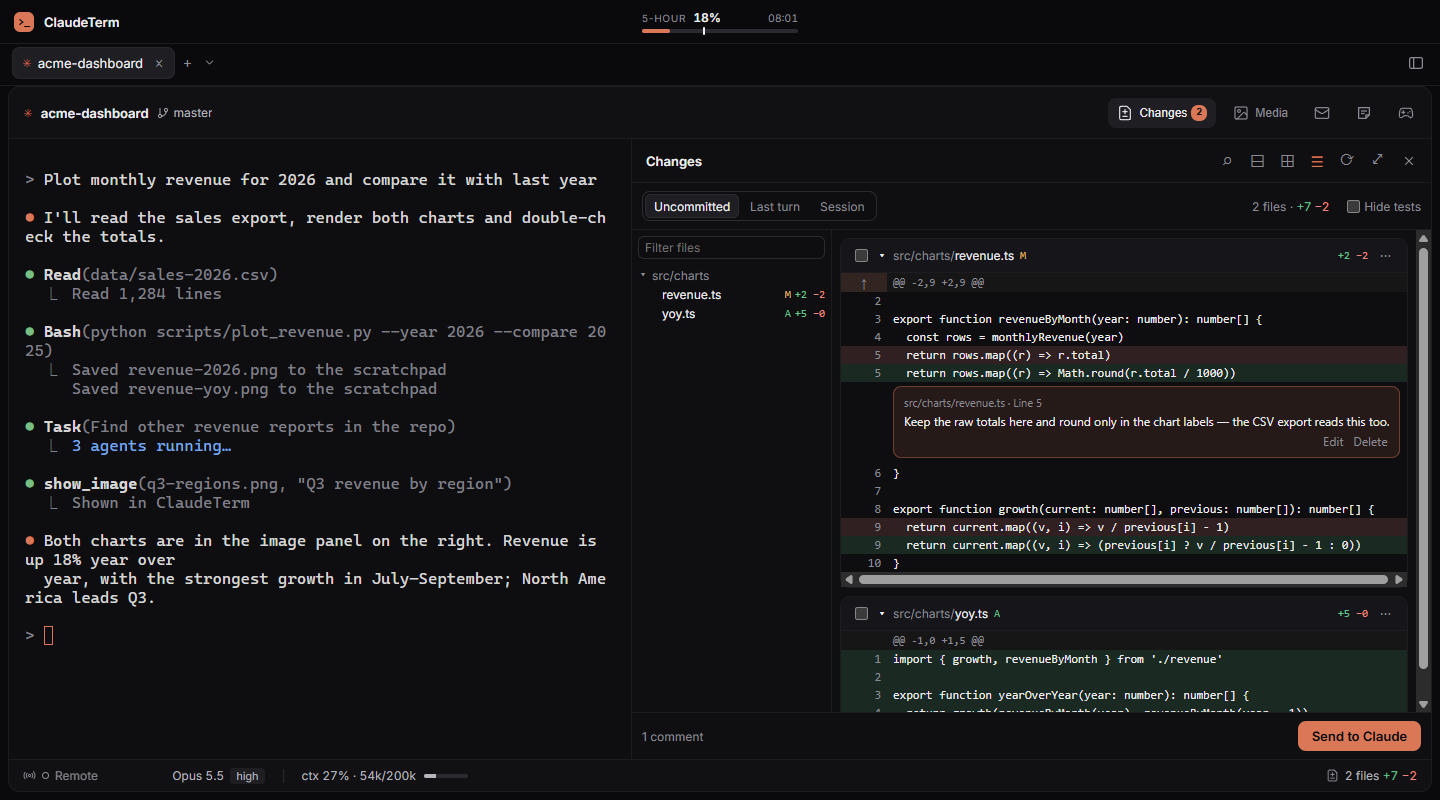
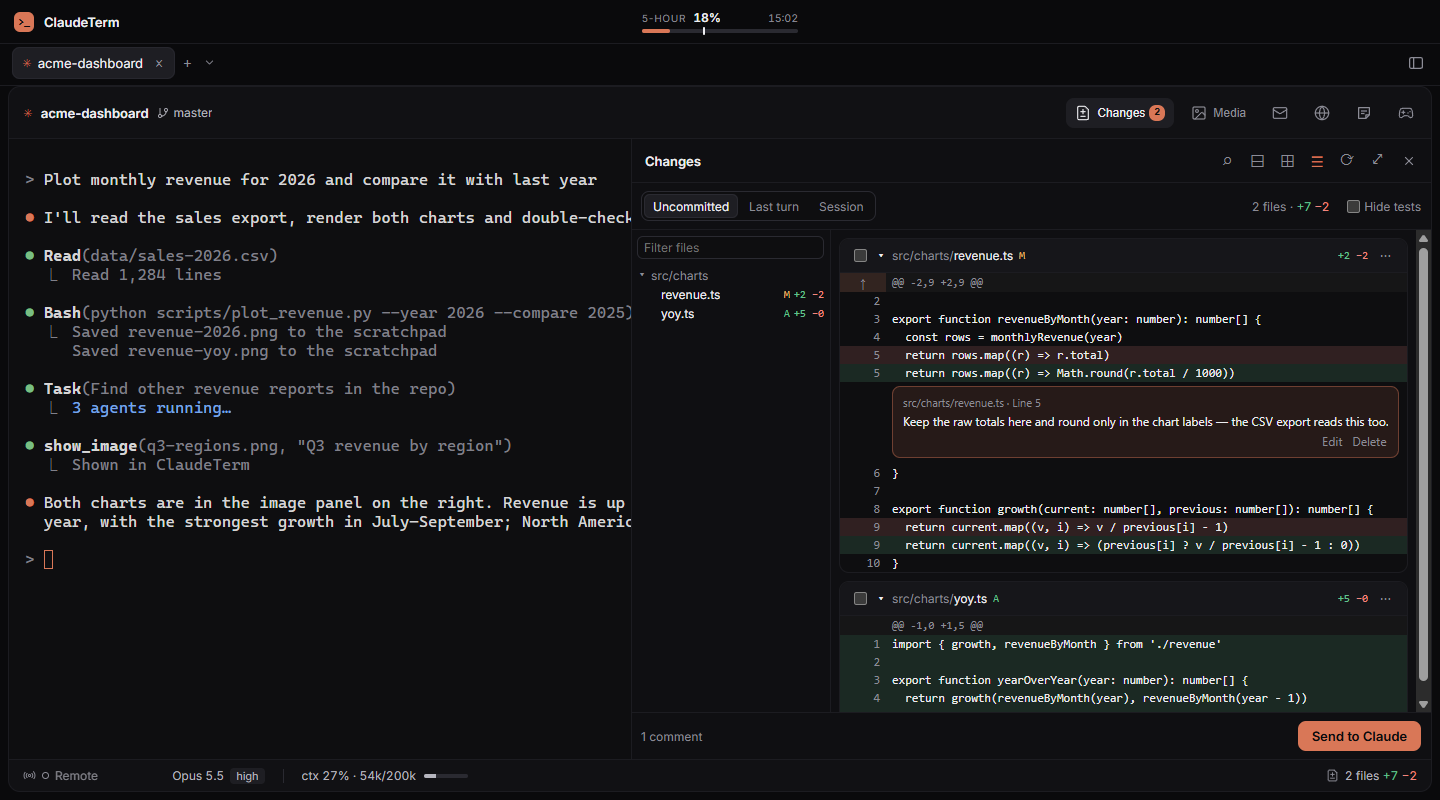
docs: the browser in the README, and the 0.25.0 changelog
The README gets a section on the browser: the panel, Claude's tools,
what the person is asked about and the residual risk, profiles, and
the cookie import with each browser's steps. Its shortcut and its
Settings tab are added to the README's lists. CHANGELOG 0.25.0 lists
the browser as new, and the encrypted cookie store as a one-way
change.

The README images that show a Claude tab's header now show its Browser
button, and Settings now shows its Browser tab.

diff --git a/README.md b/README.md
@@ -206,6 +206,28 @@ When your message to the coordinator gives a session a go — merge, push, relea
 
 The **Sessions** panel (in the coordinator's header, with the badge counting what waits for you) groups the sessions as **Waiting on you**, **Working**, **Idle** and **Resolved**, each with what it waits for, its task list's progress or its finished report, and lists the project's sessions that are **Not attached**. The coordinator's Claude has the same view through the `list_sessions`, `read_session`, `start_session`, `attach_session`, `detach_session`, `message_session` and `resolve_session` tools. Tasks and reports travel as agent messages, so the coordinator needs **Agent messages** on and Claude Code 2.1.287 or later, and a session on another device needs ClaudeTerm 0.22.0 or later there.
 
+### 🌐 A browser Claude can use
+
+**Browser** opens a browser beside a Claude tab, in the side panel: `Ctrl+Shift+B` (`⌘B` on macOS) or the **Browser** button in the tab's header, which shows for a Claude tab on this computer while it is in front. It has back, forward, reload and an address field, and a strip for several pages. Claude uses the same browser through the bundled `browser_*` tools: it opens pages, reads them (their structure, a screenshot, the text, the console and the network), clicks, types, selects and runs JavaScript. The pages of a tab come back after a restart.
+
+Claude can act on a site only with your say-so, and the panel asks:
+
+- **Local pages are free** — `localhost`, `*.localhost`, `127.0.0.0/8`, `[::1]`, and a `file://` page inside the folder the Claude tab works in. Claude works there without asking. Any other file on this computer gets a card with its path, which offers only **Allow in this tab** and **Deny**, and covers that one file in that tab. A `file://` address on another host (a network share) is not opened at all.
+- **Any other site** gets a card in the panel: **Allow in this tab** (until the Claude tab closes), **Always allow** (kept in the tab's profile, and listed in Settings → **Browser**) or **Deny**. A card nobody answers in 10 minutes makes Claude's command fail. Your own address, back, forward and reload are never asked about. Claude asks when it goes to another site, when it goes back or forward to one, or when it reads or acts on a page of one. A link you click inside a page while Claude's command runs, or in the 3 seconds after it, is held and asked about the same way, and so is a site a link, a redirect or a script reaches.
+- **Stop** ends the command Claude is running and takes the browser from it; **Hand back to Claude** gives it back.
+
+The residual risk: a local page or an allowed site is trusted fully. A script on it can still send requests to other sites in the background, such as images, `fetch` calls and frames, and those requests carry the profile's cookies as any browser would send them. Only top-level navigations to other sites are held for your yes. A local page Claude may use, or a file you allowed, can also read other files on this computer through the browser, so allow only the files you mean.
+
+**Profiles** keep their own sign-ins, storage and always-allowed sites. **Default** always exists; in Settings → **Browser** you add, rename and delete profiles and choose the one new Claude tabs use. Each tab's profile is chosen in the panel's profile menu, which also has **Import cookies…** and **Manage profiles…**.
+
+**Cookie import** brings sign-ins over from Chrome, Edge, Brave, Vivaldi, Chromium and Firefox in one click: choose the browser and profile in **Import cookies…** and press **Import**. Only cookies come over; a cookie with the same site, name and path is replaced, and expired ones are skipped. Sign-ins that a site keeps outside cookies need you to sign in again.
+
+- **Windows, Chrome, Edge and Brave** are read from the running browser. If ClaudeTerm cannot connect, it opens the browser's remote-debugging page (`chrome://inspect/#remote-debugging`, or the same page in Edge or Brave) in that browser: turn remote debugging on there and allow the connection; the import goes on by itself, and you can turn remote debugging off again on the same page. With several profiles open, you pick one.
+- **Vivaldi, Chromium and Firefox** are copied, and Chromium browsers on macOS and Linux too. If a Chromium browser holds its cookie file, the sheet waits: close the browser, and the import starts as soon as it is closed. ClaudeTerm does not close the browser you are running; it waits for you to.
+- On Windows, a Chromium import also says `Google sign-ins are not carried over: <Browser> ties them to this computer.`, naming the Chromium browser the cookies came from.
+
+The app encrypts its cookie store on disk in the installed build, with the operating system's key. On Windows another program running as your user can still decrypt it.
+
 ## Install
 
 1. Install [Claude Code](https://docs.claude.com/en/docs/claude-code) so that `claude` is on your `PATH`.
@@ -252,6 +274,7 @@ On its first start ClaudeTerm registers its `claudeterm` MCP server (the `show_i
 | Show / hide the Media panel | `Ctrl+Shift+I` | `⌘I` |
 | Show / hide the Changes panel | `Ctrl+Shift+D` | `⌘D` |
 | Show / hide the Docs panel | `Ctrl+Shift+O` | `⌘O` |
+| Show / hide the Browser panel | `Ctrl+Shift+B` | `⌘B` |
 | Show / hide the note of a Claude tab | `Ctrl+Shift+N` | `⌘N` |
 | Show / hide the mini-games | `Ctrl+Shift+G` | `⌘G` |
 | Tick the checkbox item under the caret, in the note | `Ctrl+Enter` | `⌘Enter` |
@@ -268,7 +291,7 @@ Right-click a tab → **Restart session** restarts Claude Code in the same tab a
 
 ## Settings
 
-Press `Ctrl+,` (or **▾ → Settings…**) to open the settings window: tabs for General, Appearance, Claude Code, Notifications, Panels, Accounts and Devices, and a search field (`Ctrl+F`, `⌘F` on macOS) that finds a setting on any tab and lets you change it right there. Changes apply at once.
+Press `Ctrl+,` (or **▾ → Settings…**) to open the settings window: tabs for General, Appearance, Claude Code, Notifications, Panels, Browser, Accounts and Devices, and a search field (`Ctrl+F`, `⌘F` on macOS) that finds a setting on any tab and lets you change it right there. Changes apply at once.
 
 ![Settings window](docs/images/settings.png)
 

diff --git a/CHANGELOG.md b/CHANGELOG.md
@@ -2,6 +2,17 @@
 
 What changed in each ClaudeTerm release. The GitHub release of a version shows its section from this file.
 
+## 0.25.0
+
+### New
+
+- **A built-in browser for your Claude tabs.** **Browser** in a Claude tab's header, or **Ctrl+Shift+B** (**⌘B** on a Mac), opens a browser beside the chat, and Claude can use it too, through its `browser_*` tools: it opens pages, reads them, clicks, types, takes screenshots and runs JavaScript. Pages on this computer are free for Claude, and a file inside the folder its tab works in; any other site or file asks you in the panel first, with **Allow in this tab**, **Always allow** (sites only) or **Deny**. **Stop** takes the browser away from Claude and **Hand back to Claude** gives it back. A tab's pages come back after a restart.
+- **Browser profiles and cookie import.** Each profile keeps its own sign-ins, storage and always-allowed sites, and Settings → **Browser** manages them. **Import cookies…** brings the cookies of a Chrome, Edge, Brave, Vivaldi, Chromium or Firefox profile over in one go. On Windows, Chrome, Edge and Brave are read from the running browser, after you turn on remote debugging there and allow the connection; Vivaldi, Chromium and Firefox are copied, and an open Chromium browser waits until you close it.
+
+### Changes
+
+- **The browser's sign-ins are encrypted on disk.** The app's cookie store is encrypted in the installed version, with the system's key; on Windows another program running as you can still read it. This is one-way: an older ClaudeTerm cannot read the cookies a newer one stored, so going back to an older version loses the browser's sign-ins. Nothing else in ClaudeTerm keeps cookies you would miss.
+
 ## 0.24.0
 
 ### New
